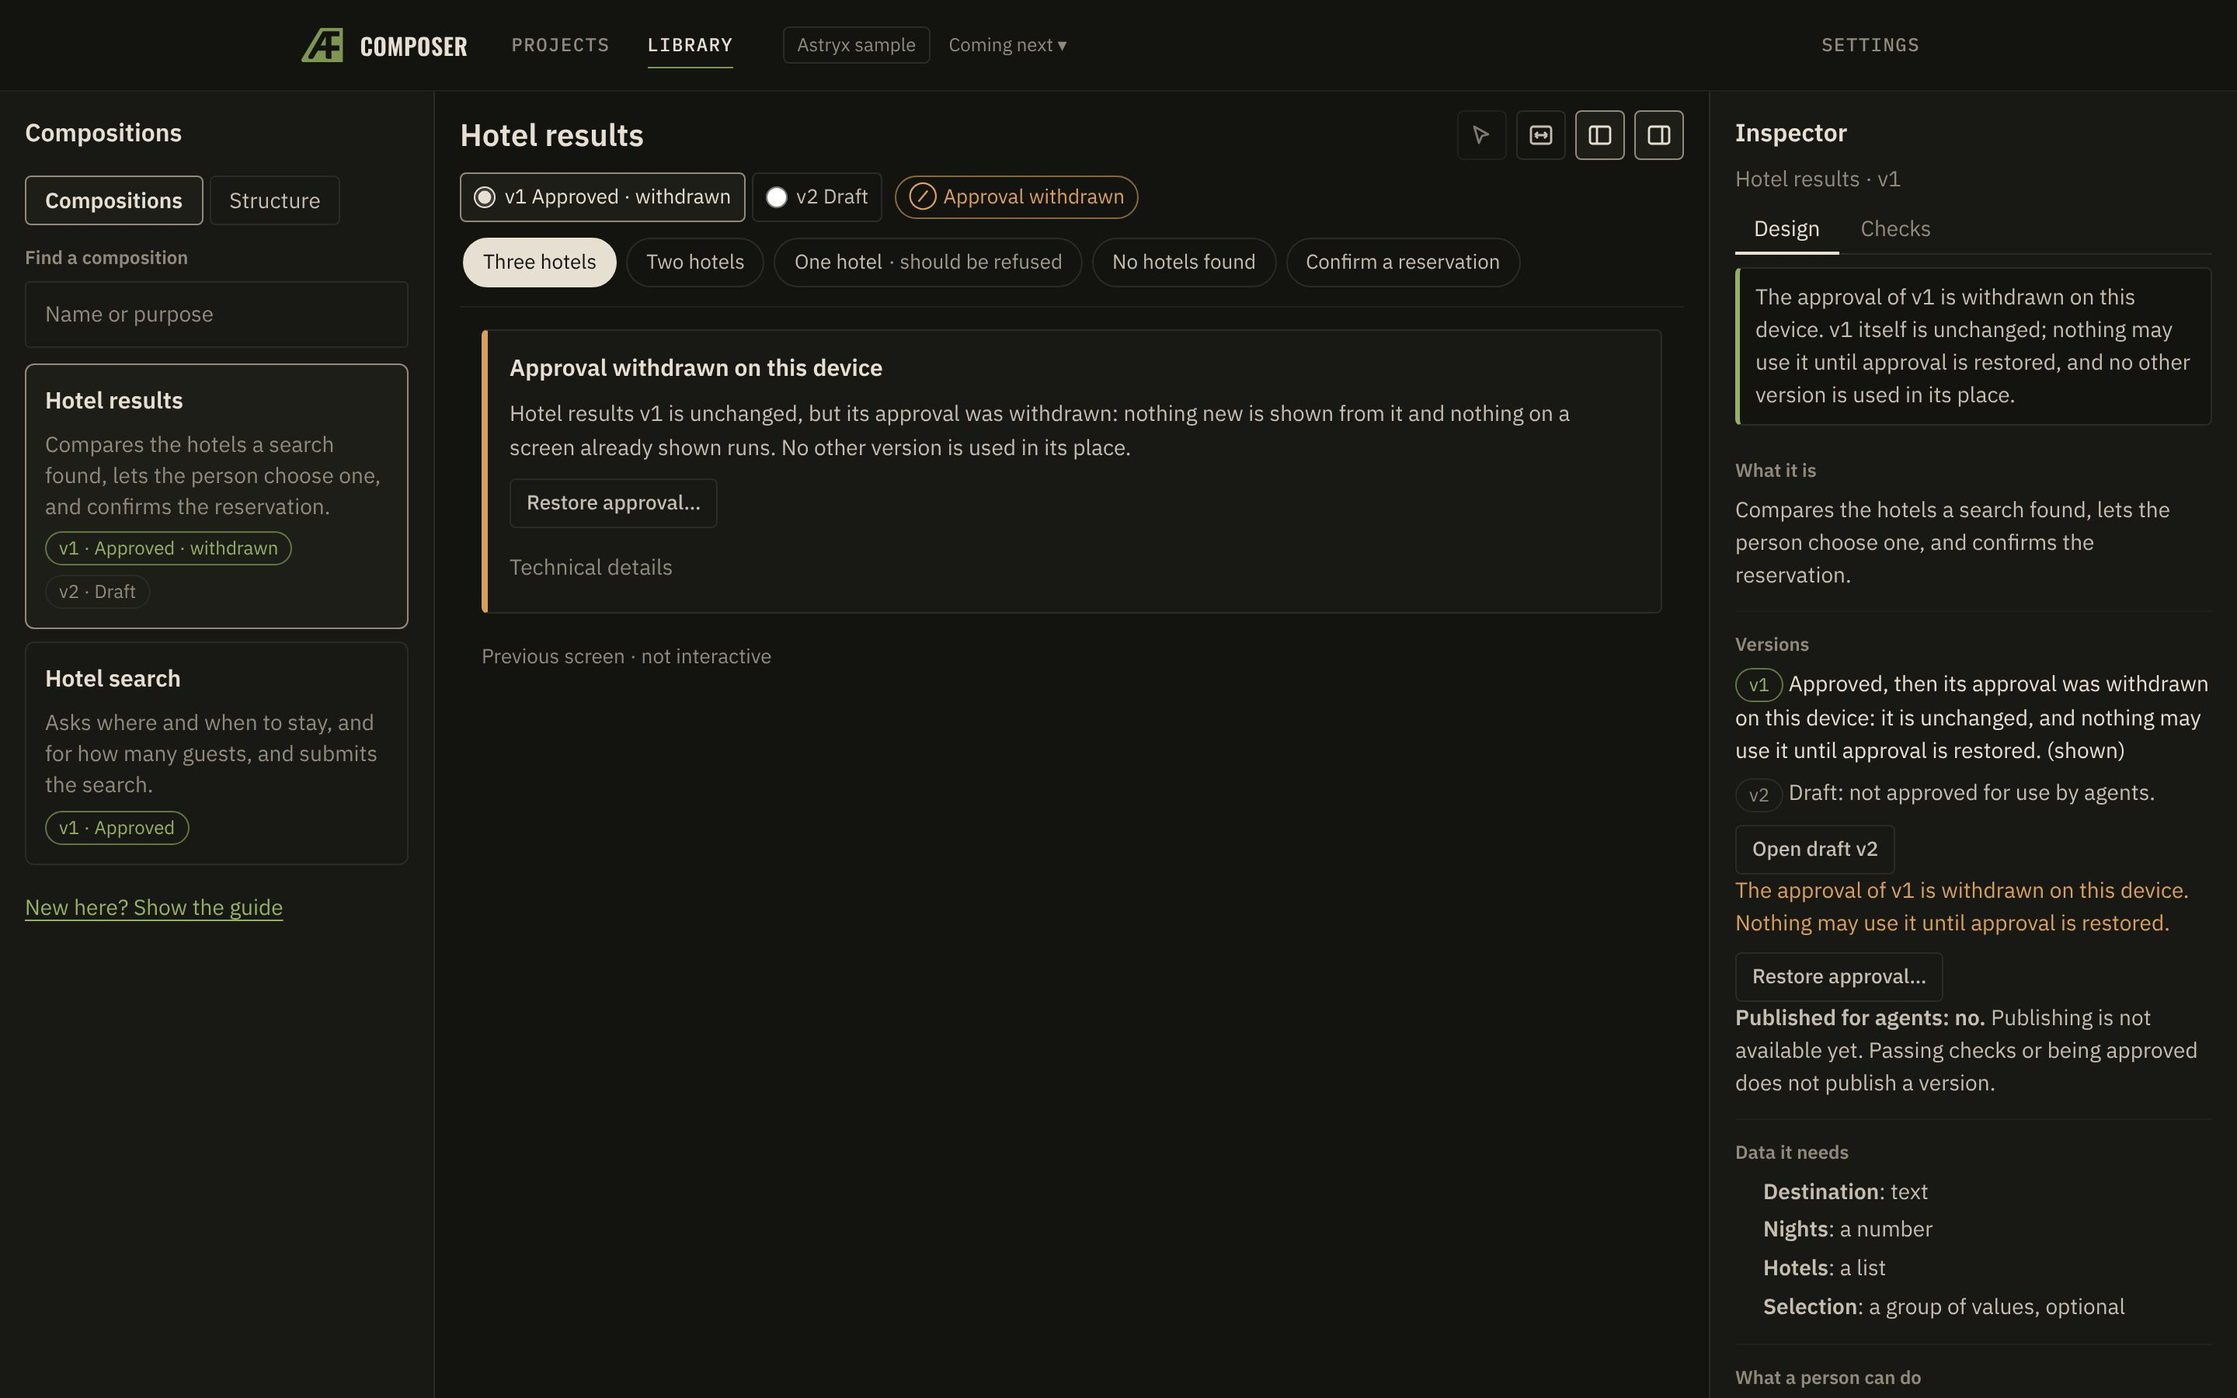
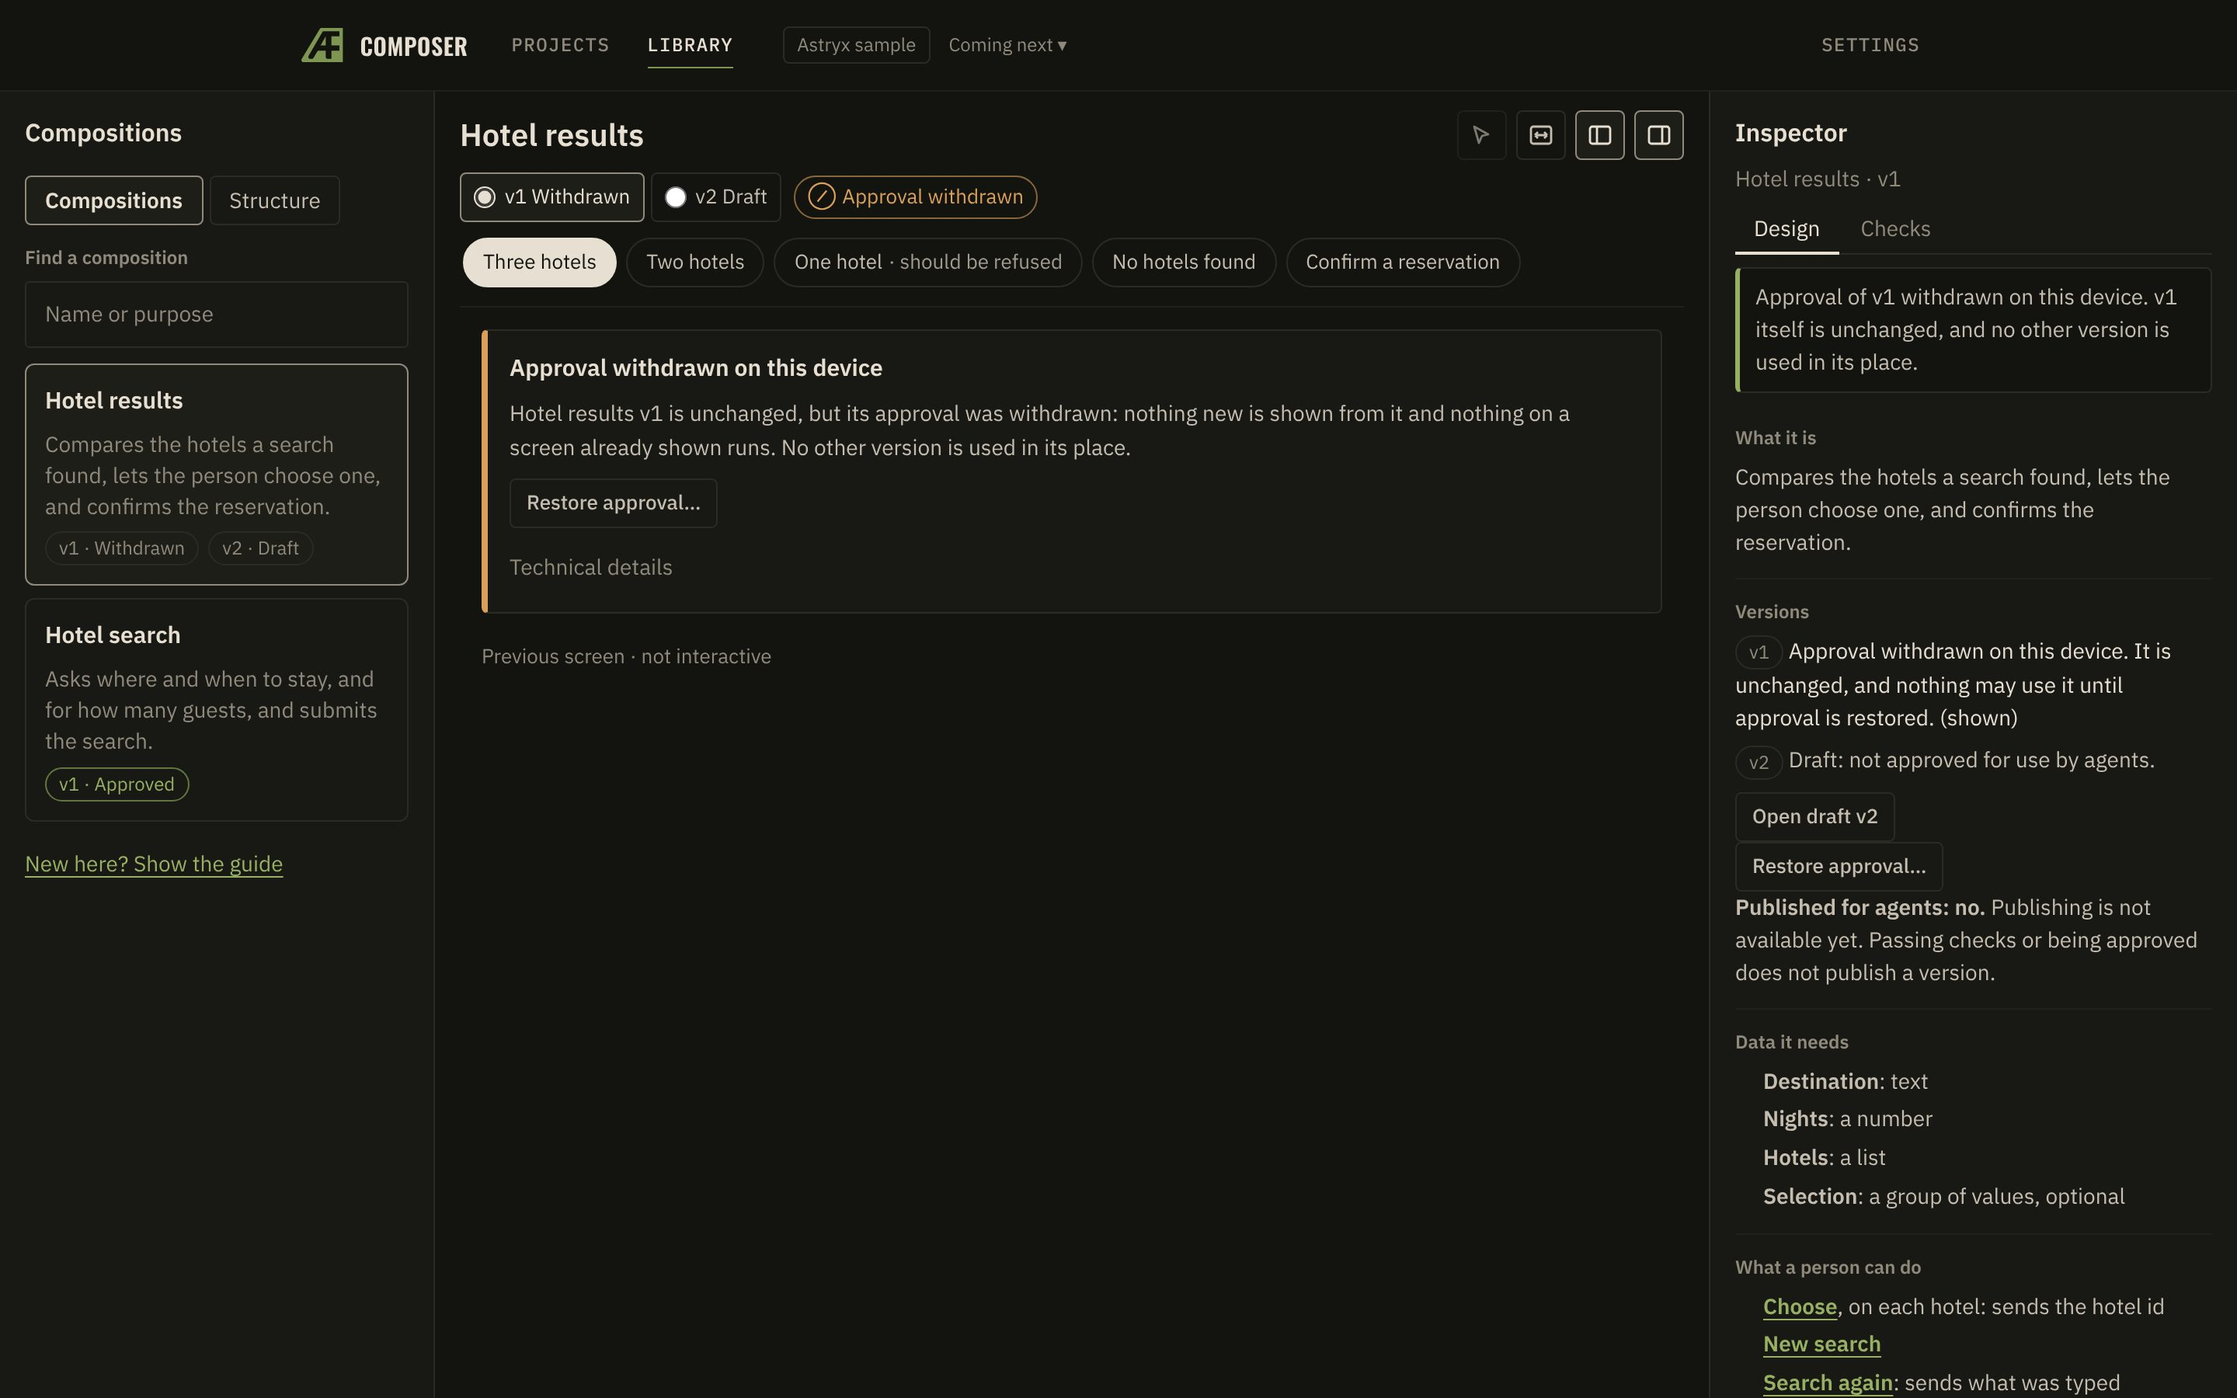
Withdrawn version: no header overlap on phones, one statement per surface
Corrections from the independent authoring review (1.7 and 1.8):
- At 390 px a withdrawn version's label no longer runs under the view
  controls: the version label reads "v1 Withdrawn", and the version choices
  wrap inside their own cell instead of overflowing it.
- A withdrawn version is never said to stay approved. Creating a draft
  from it, and the draft note, say "v1 is unchanged; its approval is
  withdrawn."
- The withdrawn state is said once per surface: the version label, the
  check pill, the canvas panel with Restore, and one line in the
  inspector's Versions list; the lifecycle control offers only Restore.

The approved definition, its recorded evidence and the withdrawal
lifecycle are unchanged. A browser test covers the phone layout and the
wording; screenshots are regenerated.

Claude-Session: https://claude.ai/code/session_013DBMAbt84WFkAWu1BzsXNF

Changed region(s): [[0.7812, 0.1867, 0.9688, 1.0], [0.0, 0.3733, 0.1562, 0.6533], [0.25, 0.1244, 0.5, 0.1556]]

diff --git a/apps/composer/experimental/workspace/library.tsx b/apps/composer/experimental/workspace/library.tsx
@@ -525,7 +525,7 @@ export function LibraryWorkspace() {
     persist({ ...prefs, version: r.version, scenario: null, state: null, panel: "inspector" });
     setTab("design");
     showInspector();
-    setNotice(r.warning ? { tone: "warn", text: r.warning } : { tone: "ok", text: `Draft v${r.version} created from v${definition.version}. v${definition.version} stays approved and unchanged.` });
+    setNotice(r.warning ? { tone: "warn", text: r.warning } : { tone: "ok", text: `Draft v${r.version} created from v${definition.version}. ${isWithdrawn(definition) ? `v${definition.version} is unchanged; its approval is withdrawn.` : `v${definition.version} stays approved and unchanged.`}` });
     setAnnounce(`Draft v${r.version} created. Edit it in the inspector.`);
   };
 
@@ -608,7 +608,7 @@ export function LibraryWorkspace() {
       return;
     }
     setReady({ ...ready, authorization: r.record });
-    setNotice({ tone: "ok", text: `The approval of v${definition.version} is withdrawn on this device. v${definition.version} itself is unchanged; nothing may use it until approval is restored, and no other version is used in its place.` });
+    setNotice({ tone: "ok", text: `Approval of v${definition.version} withdrawn on this device. v${definition.version} itself is unchanged, and no other version is used in its place.` });
     setAnnounce(`Approval of version ${definition.version} withdrawn.`);
   };
 
@@ -913,7 +913,7 @@ export function LibraryWorkspace() {
                   <span className="cl-item__versions">
                     {e.versions.map((v) => (
                       <span key={v.version} className={`cl-badge${v.status === "approved" && !isWithdrawn(v) ? " cl-badge--ok" : ""}`}>
-                        v{v.version} · {v.status === "approved" ? (isWithdrawn(v) ? "Approved · withdrawn" : "Approved") : "Draft"}
+                        v{v.version} · {v.status === "approved" ? (isWithdrawn(v) ? "Withdrawn" : "Approved") : "Draft"}
                       </span>
                     ))}
                   </span>
@@ -996,7 +996,7 @@ export function LibraryWorkspace() {
               <select className="af-select cl-input" value={definition.version} onChange={(e) => persist({ ...prefs, version: Number(e.target.value), state: null })} data-testid="version-select">
                 {[...entry.versions].reverse().map((v) => (
                   <option key={v.version} value={v.version}>
-                    v{v.version} {v.status === "approved" ? `${ready.loaded.origin.get(versionKey(v.id, v.version)) === "device" ? "Approved on this device" : "Approved"}${isWithdrawn(v) ? " · withdrawn" : ""}` : "Draft"}
+                    v{v.version} {v.status === "approved" ? (isWithdrawn(v) ? "Withdrawn" : ready.loaded.origin.get(versionKey(v.id, v.version)) === "device" ? "Approved on this device" : "Approved") : "Draft"}
                   </option>
                 ))}
               </select>
@@ -1007,13 +1007,13 @@ export function LibraryWorkspace() {
               {entry.versions.map((v) => (
                 <label key={v.version} className={`cl-seg__opt${v.version === definition.version ? " cl-seg__opt--on" : ""}`}>
                   <input type="radio" name="cl-version" checked={v.version === definition.version} onChange={() => persist({ ...prefs, version: v.version, state: null })} />
-                  v{v.version} {v.status === "approved" ? (isWithdrawn(v) ? "Approved · withdrawn" : "Approved") : "Draft"}
+                  v{v.version} {v.status === "approved" ? (isWithdrawn(v) ? "Withdrawn" : "Approved") : "Draft"}
                 </label>
               ))}
             </fieldset>
           ) : (
             <span className={`cl-badge${definition.status === "approved" && !isWithdrawn(definition) ? " cl-badge--ok" : ""}`}>
-              v{definition.version} · {definition.status === "approved" ? (isWithdrawn(definition) ? "Approved · withdrawn" : "Approved") : "Draft"}
+              v{definition.version} · {definition.status === "approved" ? (isWithdrawn(definition) ? "Withdrawn" : "Approved") : "Draft"}
             </span>
           )}
         </div>
@@ -1038,7 +1038,7 @@ export function LibraryWorkspace() {
               </summary>
               <div className="cl-draft__pop" role="note">
                 <p>
-                  v{definition.version} is a draft, newer than approved v{approvedVersion}. It is not approved for use by agents: passing checks does not approve it. v{approvedVersion} stays approved and unchanged.
+                  v{definition.version} is a draft, newer than {isWithdrawn(entry.approved ?? undefined) ? "" : "approved "}v{approvedVersion}. It is not approved for use by agents: passing checks does not approve it. {isWithdrawn(entry.approved ?? undefined) ? `v${approvedVersion} is unchanged; its approval is withdrawn.` : `v${approvedVersion} stays approved and unchanged.`}
                 </p>
                 {draftState !== "pass" && <p data-testid="draft-check-state">{draftState === "checking" ? "Its checks are running." : draftState === "fail" ? "Its latest checks fail: open Checks in the inspector to see which examples, and why." : "It has changed since its last check. Run the checks before it can be approved."}</p>}
                 {changes && (
@@ -1233,7 +1233,7 @@ export function LibraryWorkspace() {
         <li key={v.version} className={v.version === definition.version ? "cl-versions__on" : undefined}>
           <span className={`cl-badge${v.status === "approved" && !isWithdrawn(v) ? " cl-badge--ok" : ""}`}>v{v.version}</span>{" "}
           {v.status === "approved" && isWithdrawn(v)
-            ? "Approved, then its approval was withdrawn on this device: it is unchanged, and nothing may use it until approval is restored."
+            ? "Approval withdrawn on this device. It is unchanged, and nothing may use it until approval is restored."
             : v.status === "approved"
             ? ready.loaded.origin.get(versionKey(v.id, v.version)) === "device"
               ? "Approved on this device: a person approved this exact version here, and it cannot change."
@@ -1332,7 +1332,7 @@ export function LibraryWorkspace() {
                     Open draft v{entry.draft.version}
                   </button>
                 ) : (
-                  <p className="cl-text">To change this composition, create a draft: v{definition.version} stays approved and unchanged while you work.</p>
+                  <p className="cl-text">{isWithdrawn(definition) ? "To change this composition, create a draft from it." : `To change this composition, create a draft: v${definition.version} stays approved and unchanged while you work.`}</p>
                 )
               )}
               {definition.status === "approved" && governed && (
@@ -2005,7 +2005,6 @@ function ApprovalLifecycle({ version, withdrawn, origin, open, setOpen, busy, wi
   }
   return withdrawn ? (
     <div data-testid="approval-withdrawn">
-      <p className="cl-warn">The approval of v{version} is withdrawn on this device. Nothing may use it until approval is restored.</p>
       <button className="cl-tool" onClick={() => setOpen("restore")} data-testid="restore">
         Restore approval…
       </button>
@@ -2249,7 +2248,7 @@ textarea.cl-input { min-height: 72px; resize: vertical; line-height: 1.45; }
 }
 .cl-toolbar__row { display: flex; align-items: center; gap: 8px 10px; min-width: 0; }
 .cl-toolbar__label { font-size: 12px; font-weight: 600; color: var(--fg-dim); white-space: nowrap; align-self: flex-start; line-height: var(--cl-target); }
-.cl-seg { border: 0; padding: 0; margin: 0; display: inline-flex; gap: 4px; align-items: center; }
+.cl-seg { border: 0; padding: 0; margin: 0; display: inline-flex; flex-wrap: wrap; gap: 4px; align-items: center; min-width: 0; }
 .cl-seg__opt { display: inline-flex; align-items: center; gap: 6px; min-height: var(--cl-target); padding: 0 8px; border: 1px solid var(--line); border-radius: 4px; font-size: 13px; cursor: pointer; white-space: nowrap; }
 .cl-seg__opt input { margin: 0; width: 14px; height: 14px; accent-color: var(--fg); }
 .cl-seg__opt--on { border-color: var(--fg-dim); background: var(--bg-2); color: var(--fg); }

diff --git a/e2e/composer-withdrawal.spec.ts b/e2e/composer-withdrawal.spec.ts
@@ -47,13 +47,13 @@ test.describe("approval withdrawal", () => {
     await expect(page.getByRole("button", { name: "Keep it approved" })).toBeFocused();
     const evidence = (await storage(page))[`${NS}approvals`];
     await page.getByTestId("withdraw-confirm-button").click();
-    await expect(page.getByTestId("authoring-notice")).toContainText("The approval of v1 is withdrawn on this device. v1 itself is unchanged");
+    await expect(page.getByTestId("authoring-notice")).toContainText("Approval of v1 withdrawn on this device. v1 itself is unchanged");
     await expect(page.getByTestId("refusal")).toHaveAttribute("data-stage", "withdrawn");
     await expect(page.getByTestId("refusal")).toContainText("Approval withdrawn on this device");
     await expect(page.getByTestId("check-pill")).toHaveAttribute("data-state", "withdrawn");
     // The previous screen is kept for comparison only, not interactive.
     await expect(page.getByTestId("kept-instance").locator("summary")).toContainText("not interactive");
-    await expect(page.getByRole("radio", { name: /v1 Approved · withdrawn/i })).toBeChecked();
+    await expect(page.getByRole("radio", { name: /v1 Withdrawn/i })).toBeChecked();
     // Another example: still nothing shown from v1, and the draft is not used in its place.
     await page.getByTestId("scenario-two").click();
     await ready(page);
@@ -65,7 +65,7 @@ test.describe("approval withdrawal", () => {
     expect(stored[`${NS}versions`]).toBeUndefined();
     await page.reload();
     await ready(page);
-    await page.getByRole("radio", { name: /v1 Approved · withdrawn/i }).check();
+    await page.getByRole("radio", { name: /v1 Withdrawn/i }).check();
     await ready(page);
     await expect(page.getByTestId("refusal")).toHaveAttribute("data-stage", "withdrawn");
   });
@@ -108,7 +108,7 @@ test.describe("approval withdrawal", () => {
     await page.reload();
     await ready(page);
     // Opening the composition selects v2, withdrawn, as it is: v1 is not silently used instead.
-    await expect(page.getByRole("radio", { name: /v2 Approved · withdrawn/i })).toBeChecked();
+    await expect(page.getByRole("radio", { name: /v2 Withdrawn/i })).toBeChecked();
     await expect(page.getByTestId("refusal")).toHaveAttribute("data-stage", "withdrawn");
     // v1 keeps its own approval.
     await page.getByRole("radio", { name: /v1 Approved/i }).check();
@@ -127,8 +127,34 @@ test.describe("approval withdrawal", () => {
     await expect(b.getByTestId("check-pill")).toHaveAttribute("data-state", "pass");
     await withdraw(a);
     await expect(b.getByTestId("refusal")).toHaveAttribute("data-stage", "withdrawn");
-    await expect(b.getByRole("radio", { name: /v1 Approved · withdrawn/i })).toBeChecked();
+    await expect(b.getByRole("radio", { name: /v1 Withdrawn/i })).toBeChecked();
     await context.close();
+  });
+
+  test("a withdrawn version is said to be withdrawn once per surface, never that it stays approved; at 390 px its label does not run under the view controls", async ({ page }) => {
+    await page.setViewportSize({ width: 390, height: 844 });
+    await openLibrary(page);
+    await page.getByRole("radio", { name: /v1 Approved/i }).check();
+    await ready(page);
+    await withdraw(page);
+    await page.keyboard.press("Escape");
+    const overlap = await page.evaluate(() => {
+      const box = (el: Element) => el.getBoundingClientRect();
+      const options = [...document.querySelectorAll(".cl-toolbar__versions .cl-seg__opt")].map(box);
+      const view = [...document.querySelectorAll(".cl-toolbar__view button")].map(box);
+      return options.flatMap((a) => view.filter((b) => a.left < b.right - 0.5 && b.left < a.right - 0.5 && a.top < b.bottom - 0.5 && b.top < a.bottom - 0.5).map(() => 1)).length;
+    });
+    expect(overlap).toBe(0);
+    expect(await page.evaluate(() => document.documentElement.scrollWidth <= window.innerWidth)).toBe(true);
+    await expect(page.getByRole("radio", { name: /v2 Draft/i })).toBeVisible();
+    await inspector(page);
+    const versions = page.getByTestId("versions");
+    await expect(versions).toContainText("Approval withdrawn on this device.");
+    // The inspector's Versions section states it once, and offers the next action.
+    await expect(page.getByTestId("approval-withdrawn")).not.toContainText("withdrawn");
+    await expect(page.getByTestId("approval-withdrawn").getByTestId("restore")).toBeVisible();
+    await expect(page.getByTestId("composition-library")).not.toContainText("v1 stays approved");
+    await expect(page.getByTestId("composition-library")).not.toContainText("Approved · withdrawn");
   });
 
   for (const [w, h] of [

diff --git a/docs/repositioning/m1/withdrawal/README.md b/docs/repositioning/m1/withdrawal/README.md
@@ -11,7 +11,7 @@ A person can withdraw the approval of an approved version, and later restore it.
 | **Where** | Inspector, Versions: **Withdraw approval…** on an approved version | **Restore approval…** in the inspector, or on the canvas where the version is refused |
 | **Confirmation** | Written out before anything happens: the version stays exactly as it is; nothing may use it until restored; no other version is used in its place; a packaged approval is withdrawn on this device only, by a local record; restoring needs a decision and passing checks | Its checks run again now; it is restored only if every example behaves as expected |
 | **Effect** | The host refuses to show anything new from it (`withdrawn`). It also refuses every action on a screen already shown, so existing authorization is invalidated. The last screen is kept for comparison only and is not interactive | The host authorizes it again, with the approval the new check issued |
-| **Shown as** | **v1 Approved · withdrawn** in the version control and the list, the pill **Approval withdrawn**, and a canvas panel saying what it means | **v1 Approved** |
+| **Shown as** | **v1 Withdrawn** in the version control and the list, the pill **Approval withdrawn**, and a canvas panel saying what it means | **v1 Approved** |
 
 ## How it is built
 
